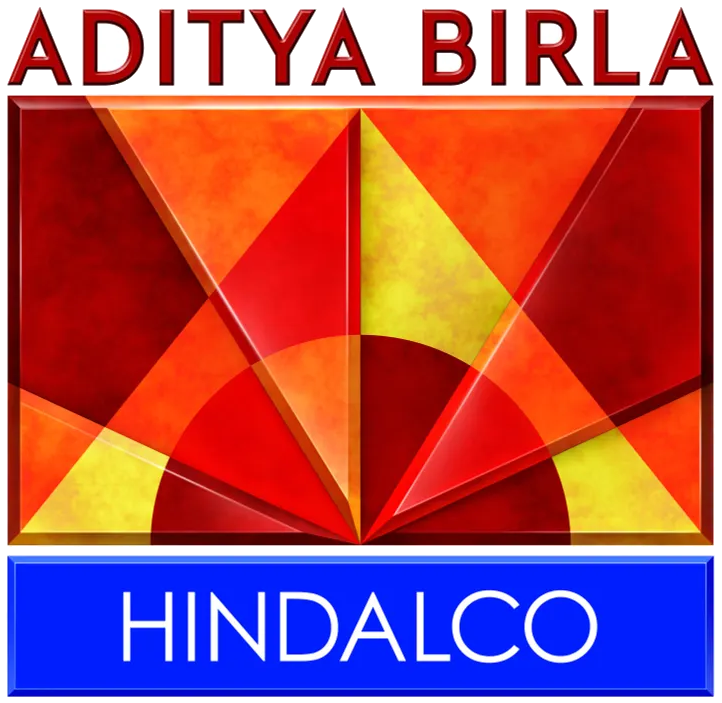
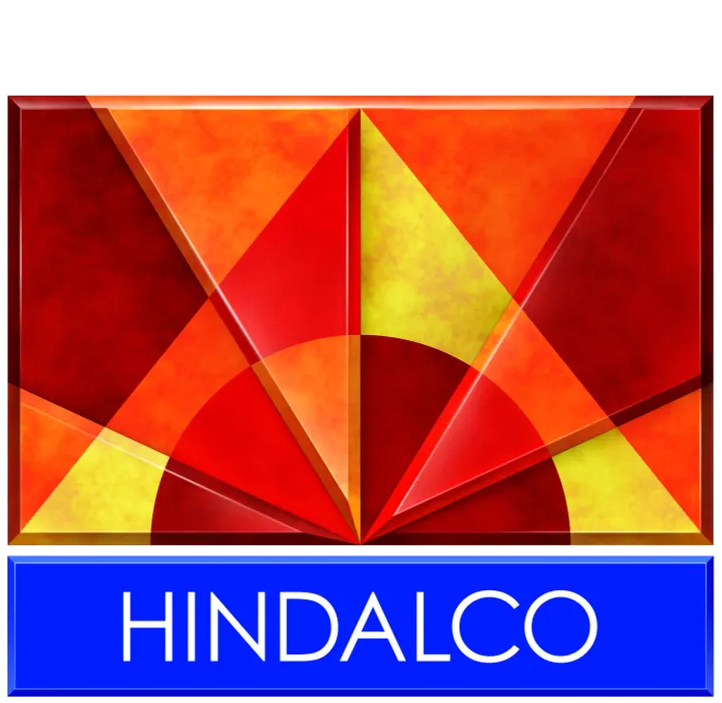
Reverse the header wordmark and version the asset
The ADITYA BIRLA wordmark was dark red, which only read because it
sat on white. With the background keyed out it fell to 1.09:1 on the
header; reversed to white it is 7.69:1. Only the wordmark band is
recoloured, found by scanning for the gap above the emblem.

public/ assets are copied verbatim rather than hashed, so the src
carries a version to stop browsers serving the cached artwork.

Changed region(s): [[0.0, 0.0, 0.518, 0.1195], [0.5789, 0.0, 1.0, 0.1195]]

diff --git a/src/App.jsx b/src/App.jsx
@@ -2933,7 +2933,13 @@ function Header({
           title="Back to the sign-in screen"
         >
           <img
-            src="/aditya-birla-hindalco.png"
+            /*
+               Versioned because this lives in public/, which Vite
+               copies verbatim rather than hashing. Overwriting the
+               file alone leaves browsers serving the cached one.
+               Bump the number whenever the artwork changes.
+            */
+            src="/aditya-birla-hindalco.png?v=2"
             alt="Aditya Birla Group"
           />
 
